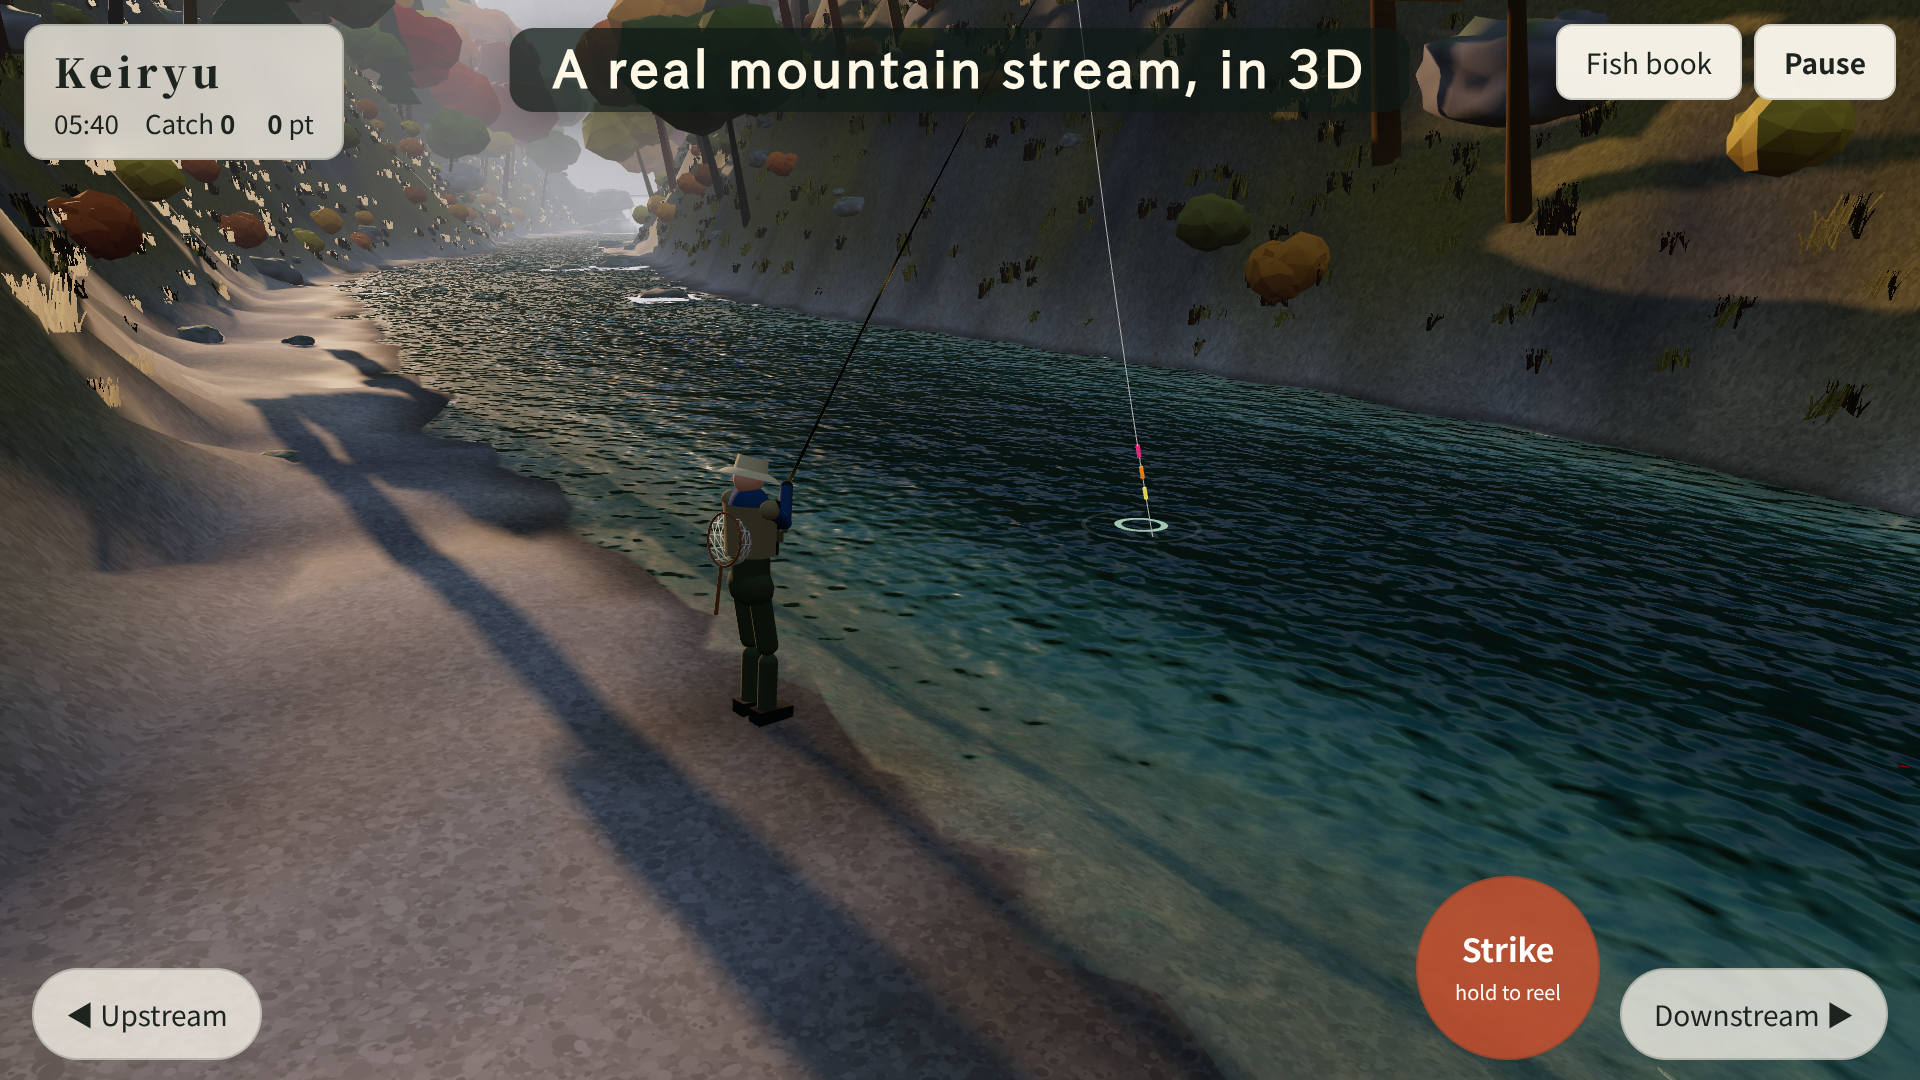
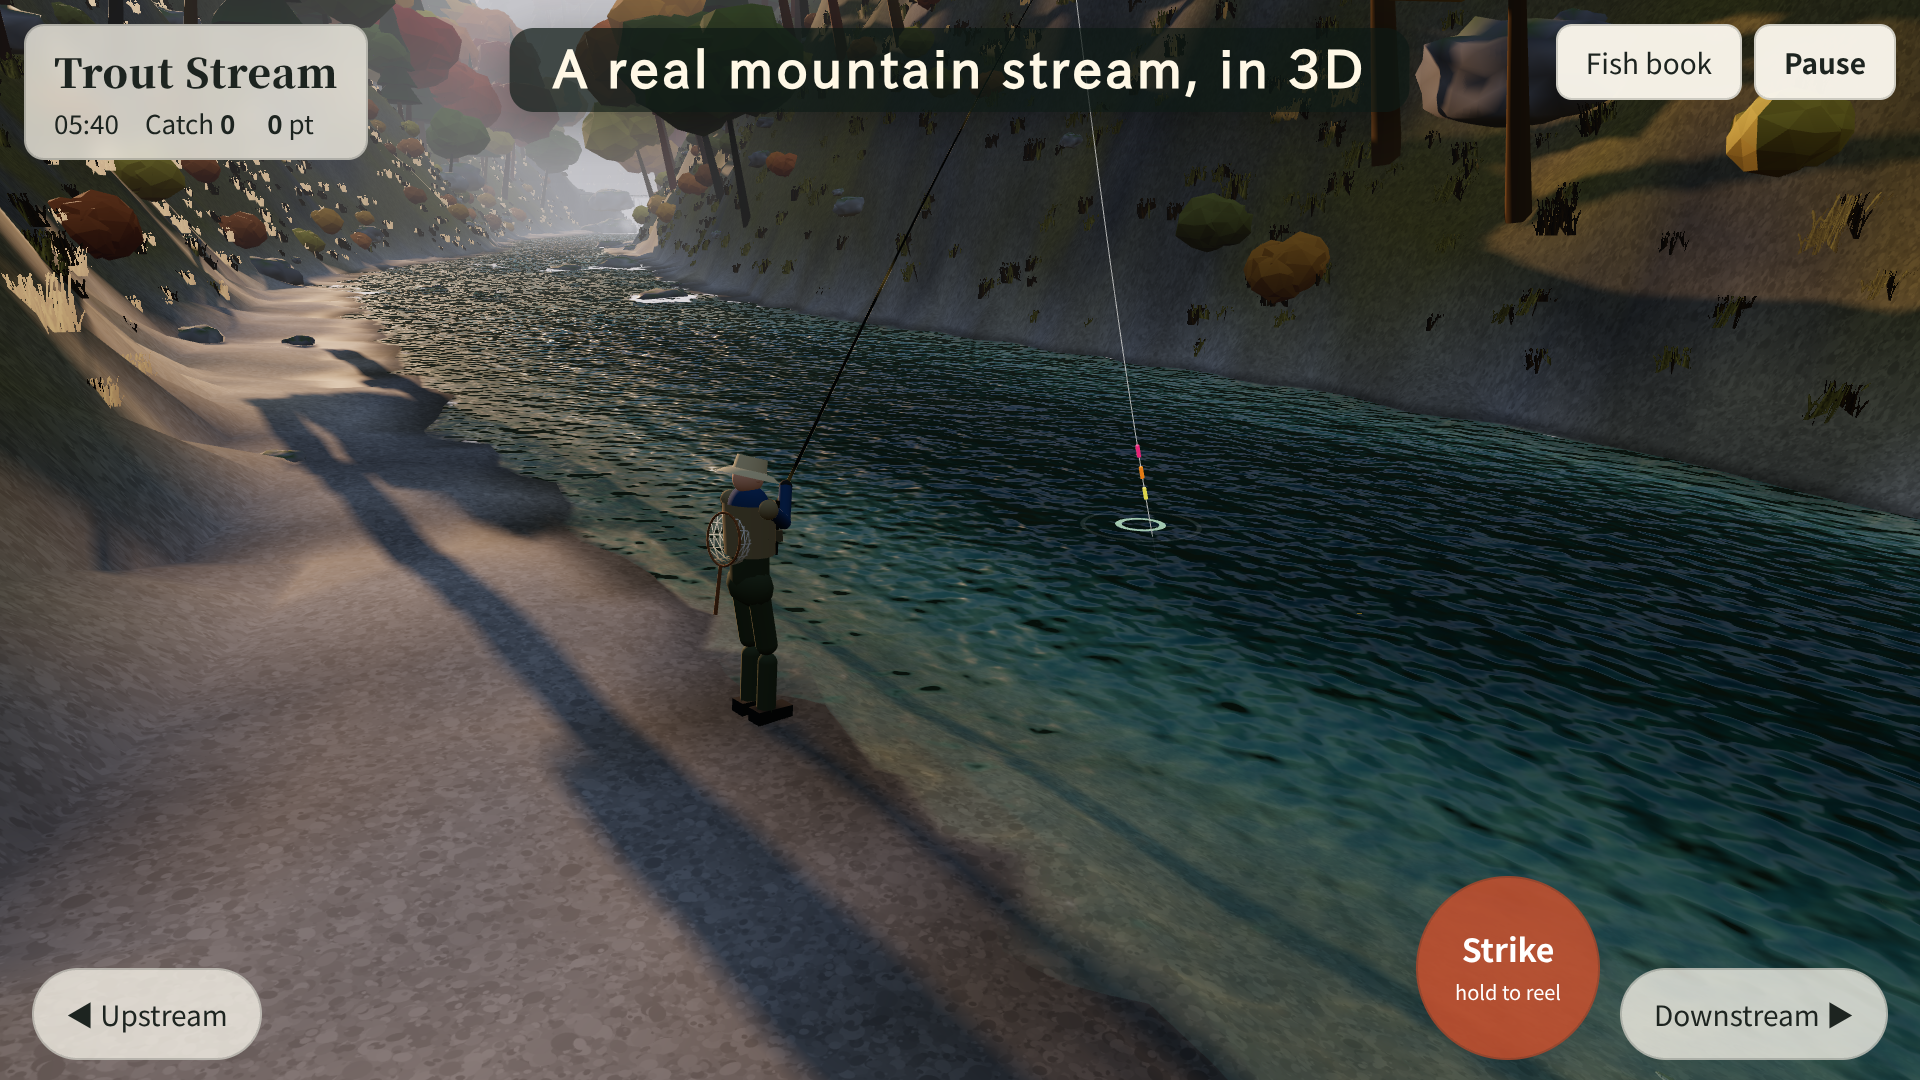
Rename the English title to "Trout Stream Fishing 3D"
"Keiryu" means nothing to English speakers and is not searched. The
English store name, title screen, share text and hashtag now use
"Trout Stream Fishing 3D"; the in-game HUD and the Android home-screen
label use the short "Trout Stream". English store screenshots and
feature graphic re-taken; listing, README and LICENSE updated.

Claude-Session: https://claude.ai/code/session_01UXdYbpNnZA6nMFmfMocsxm

diff --git a/js/i18n.js b/js/i18n.js
@@ -1,6 +1,7 @@
 // 日本語 / English
 const DICT = {
   ja: {
+    'title.hud': '渓流釣り',
     'btn.pause': '一時停止', 'btn.play': 'プレイ', 'btn.howto': 'あそびかた', 'btn.back': '戻る', 'btn.toTitle': 'トップに戻る',
     'setup.title': '釣りの準備',
     'pause.title': '一時停止', 'pause.resume': '再開', 'pause.end': '釣りを終える',
@@ -107,8 +108,8 @@ const DICT = {
     'redo.watch': 'Watch an ad to re-hook', 'redo.next': 'Skip ({s})', 'redo.note': 'Hook the one that got away again ({n} / {max} left)',
     'redo.loading': 'Loading ad…', 'redo.fail': 'Could not load an ad',
     'msg.redo': 'Re-hooked! Don\'t let it go this time!',
-    'share.text': 'I caught {n} fish for {s} pt in Keiryu! {best}', 'share.best': 'Biggest: {fish} {size} cm.', 'share.redo': ' (re-hooked {r}x)', 'share.tag': ' #Keiryu', 'share.dialog': 'Share your catch',
-    'share.catch': 'I landed a {size} cm {fish} in Keiryu! {extra}', 'share.shaku': 'A shakumono (30 cm+)!', 'share.text0': 'Fishing for yamame, iwana and ayu in a 3D mountain stream — Keiryu!', 'btn.share': 'Share',
+    'share.text': 'I caught {n} fish for {s} pt in Trout Stream Fishing 3D! {best}', 'share.best': 'Biggest: {fish} {size} cm.', 'share.redo': ' (re-hooked {r}x)', 'share.tag': ' #TroutStreamFishing', 'share.dialog': 'Share your catch',
+    'share.catch': 'I landed a {size} cm {fish} in Trout Stream Fishing 3D! {extra}', 'share.shaku': 'A shakumono (30 cm+)!', 'share.text0': 'Fishing for yamame, iwana and ayu in a 3D mountain stream — Trout Stream Fishing 3D!', 'btn.share': 'Share',
     'hint.idle.touch': 'Tap the water to cast / ◀ ▶ to walk',
     'msg.driftEnd.touch': 'End of the drift — tap the water to cast again',
     'msg.outOfReach.touch': 'Out of reach (in the river, about 2–10 m)',
@@ -118,7 +119,7 @@ const DICT = {
     'hint.tomo.idle.touch': 'Tap a riffle to send the decoy / ◀ ▶ to walk',
     'hint.tomo.drift.touch': 'Tap to steer the decoy / Retrieve to reel in',
     'help.keys.touch': '<tr><td>Tap the water</td><td>Cast (steer the decoy in tomozuri)</td></tr><tr><td>Strike button</td><td>Strike (retrieve in tomozuri) / hold to pull</td></tr><tr><td>◀ Upstream / Downstream ▶</td><td>Walk</td></tr><tr><td>Two-finger drag / pinch</td><td>Rotate / zoom camera</td></tr>',
-    'title': 'Keiryu',
+    'title': 'Trout Stream Fishing 3D', 'title.hud': 'Trout Stream',
     'title.sub': 'Fish a clear mountain stream in Japan — yamame and iwana with drift bait, ayu with a live decoy.',
     'opt.method': 'Method', 'method.bait': 'Bait drift', 'method.tomo': 'Tomozuri (ayu)',
     'opt.time': 'Time of day', 'time.morning': 'Dawn', 'time.noon': 'Midday', 'time.evening': 'Dusk',
@@ -221,7 +222,7 @@ export function setLang(l) {
 }
 export function applyStatic(root = document) {
   document.documentElement.lang = lang;
-  document.title = lang === 'ja' ? '渓流釣り' : 'Keiryu — Mountain Stream Fishing';
+  document.title = lang === 'ja' ? '渓流釣り' : 'Trout Stream Fishing 3D';
   root.querySelectorAll('[data-i18n]').forEach((el) => { el.textContent = t(el.dataset.i18n); });
   root.querySelectorAll('[data-i18n-html]').forEach((el) => { el.innerHTML = t(el.dataset.i18nHtml); });
 }

diff --git a/css/style.css b/css/style.css
@@ -184,3 +184,8 @@ body.bannerSpace .screen, body.bannerSpace .modal { padding-bottom: 56px; }
   body.fighting #message { top: auto; bottom: 73px; left: var(--hud-left, 107px); transform: none; width: min(calc(100vw - var(--hud-left, 107px) - var(--hud-right, 213px)), 380px);
     max-width: none; white-space: nowrap; overflow: hidden; text-overflow: ellipsis; padding: 6px 12px; }
 }
+
+/* 英語のゲーム名は長いので、ロゴの字間と大きさを詰める */
+html[lang="en"] .logo { letter-spacing: .02em; }
+html[lang="en"] .logo.big { font-size: clamp(30px, 5.6vw, 52px); letter-spacing: .03em; }
+@media (max-height: 500px) { html[lang="en"] .logo.big { font-size: 30px; } }

diff --git a/index.html b/index.html
@@ -23,7 +23,7 @@
 
 <div id="hud">
   <div id="topLeft" class="panel">
-    <div class="logo" data-i18n="title">渓流釣り</div>
+    <div class="logo" data-i18n="title.hud">渓流釣り</div>
     <div class="stats"><span id="timeLabel">--:--</span>　<span data-i18n="hud.catch">釣果</span> <b id="catchCount">0</b> <span data-i18n="hud.unit">尾</span>　<b id="score">0</b> pt</div>
   </div>
   <div id="topRight">

diff --git a/README.md b/README.md
@@ -1,4 +1,4 @@
-# 渓流釣り（Keiryu Fishing）
+# 渓流釣り（Trout Stream Fishing 3D）
 
 山あいの清流でヤマメ・イワナを「目印釣り」で、アユを「友釣り」で狙う、ブラウザで遊べる 3D 渓流釣りゲームです。
 日本語 / English に対応しています（右上のボタンで切り替え）。
